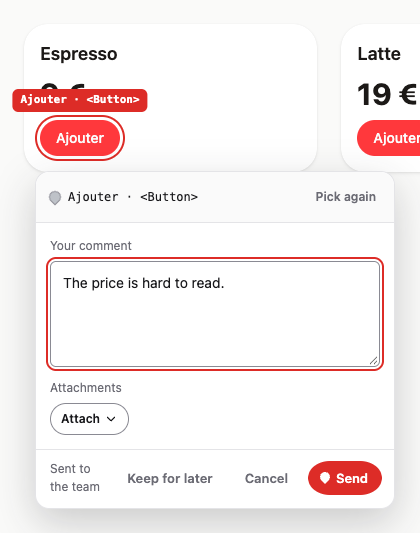
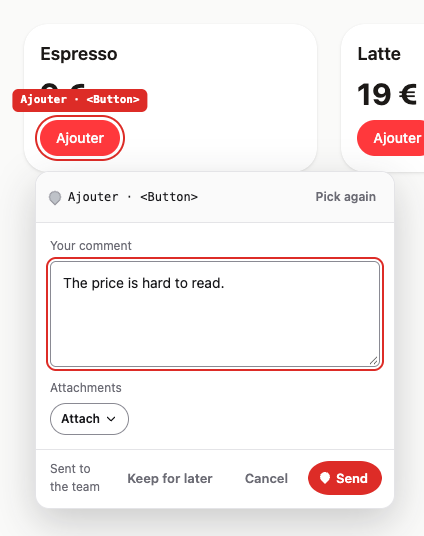
test(e2e): change React's text nodes in place, and give the captures of the guide a stable size (FRU-486)
- The word of the sign-in and the script tag are replaced through the
  nodeValue of React's own text node, never textContent: no node React made
  is replaced under it (review of #679).
- The edges of a capture are rounded and its size is a multiple of 8 px.
  The composer sits a fraction of a pixel apart from a run to the next
  (x from 267.05 to 267.34 in four runs), and note.png came out 419 or
  420 px wide: a capture of another size is another capture.
- The captures taken again with that clip (sizes only, same screens).

diff --git a/e2e/first-note.spec.ts b/e2e/first-note.spec.ts
@@ -105,7 +105,10 @@ test('a first user goes from the setup to a first note (FRU-481)', async ({ exte
   // addresses are the ones of the test: the capture shows those of Fruitback Cloud.
   const scriptCard = goesOn.locator('.kit-option').filter({ has: goesOn.getByRole('heading', { name: 'Script tag' }) });
   await scriptCard.getByRole('region', { name: 'Script tag' }).evaluate((snippet) => {
-    snippet.textContent = (snippet.textContent ?? '')
+    const [only] = snippet.childNodes;
+    if (snippet.childNodes.length !== 1 || only?.nodeType !== Node.TEXT_NODE)
+      throw new Error('the script is not one text');
+    only.nodeValue = (only.nodeValue ?? '')
       .replaceAll(/site_[\w-]+/g, 'site_8f3k2m')
       .replaceAll('http://localhost:5178', 'https://app.fruitback.com')
       .replaceAll('http://localhost:8788', 'https://api.fruitback.com');
@@ -144,8 +147,13 @@ test('a first user goes from the setup to a first note (FRU-481)', async ({ exte
   await expect(connect.getByText(word, { exact: true })).toBeVisible({ timeout: 15_000 });
   await welcome!.screenshot({ path: test.info().outputPath('05-welcome-word.png') });
   await connect.screenshot({ path: test.info().outputPath('06-connect.png') });
-  // The word is drawn at random: the capture shows the same one at each run.
-  await connect.getByText(word, { exact: true }).evaluate((shown) => (shown.textContent = 'PLUM 42'));
+  // The word is drawn at random: the capture shows the same one at each run. The value of React's
+  // own text node changes, and no node is replaced: a later render of React finds the node it made.
+  await connect.getByText(word, { exact: true }).evaluate((shown) => {
+    const [only] = shown.childNodes;
+    if (shown.childNodes.length !== 1 || only?.nodeType !== Node.TEXT_NODE) throw new Error('the word is not one text');
+    only.nodeValue = 'PLUM 42';
+  });
   await capture(connect, 'word', [
     connect.getByRole('heading', { name: 'Connect this browser' }),
     connect.getByText('PLUM 42', { exact: true }),

diff --git a/e2e/guide.ts b/e2e/guide.ts
@@ -55,12 +55,16 @@ async function around(page: Page, parts: Locator[], pad: number) {
   const found = boxes.filter((box) => box !== null);
   if (found.length !== parts.length) throw new Error('a part of a capture of the guide is not on the page');
   const viewport = page.viewportSize() ?? { width: 1440, height: 900 };
-  const left = Math.max(0, Math.floor(Math.min(...found.map((box) => box.x)) - pad));
-  const top = Math.max(0, Math.floor(Math.min(...found.map((box) => box.y)) - pad));
-  const right = Math.min(viewport.width, Math.ceil(Math.max(...found.map((box) => box.x + box.width)) + pad));
-  const bottom = Math.min(viewport.height, Math.ceil(Math.max(...found.map((box) => box.y + box.height)) + pad));
+  // A part can sit a fraction of a pixel apart from a run to the next, and a capture of another size
+  // is another capture: the edges are rounded, and the size is a multiple of 8 pixels.
+  const left = Math.max(0, Math.round(Math.min(...found.map((box) => box.x)) - pad));
+  const top = Math.max(0, Math.round(Math.min(...found.map((box) => box.y)) - pad));
+  const right = Math.max(...found.map((box) => box.x + box.width)) + pad;
+  const bottom = Math.max(...found.map((box) => box.y + box.height)) + pad;
+  const width = Math.min(viewport.width - left, Math.ceil((right - left) / 8) * 8);
+  const height = Math.min(viewport.height - top, Math.ceil((bottom - top) / 8) * 8);
 
-  return { x: left, y: top, width: right - left, height: bottom - top };
+  return { x: left, y: top, width, height };
 }
 
 /**

diff --git a/docs/decisions/onboarding.md b/docs/decisions/onboarding.md
@@ -137,7 +137,10 @@ Cloud, and a self-hosted console connects a browser by a pairing link.
 **What varies is replaced before a capture**: the word of the sign-in (`PLUM 42`), the id of the site
 in the script tag and its addresses (those of the Cloud, `app.` and `api.fruitback.com`, for the ones
 of the test), and the text of the note. Each box is read until it stops moving: the composer opens
-with a motion, and a box read in its middle cut the capture short in some runs. A capture then changes only when a screen does. A
+with a motion, and a box read in its middle cut the capture short in some runs. The composer still
+sits a fraction of a pixel apart from a run to the next (x from 267.05 to 267.34 in four runs), so
+the edges of a capture are rounded and its size is a multiple of 8 pixels. React's text nodes are
+changed in place (`nodeValue`), never replaced, so a later render finds the nodes it made. A capture then changes only when a screen does. A
 capture that differs by at most 0.2 % of its pixels is the same capture (`maxDiffPixelRatio` of
 `toHaveScreenshot`).
 
